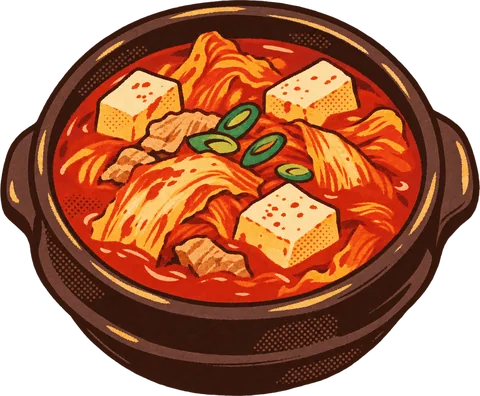
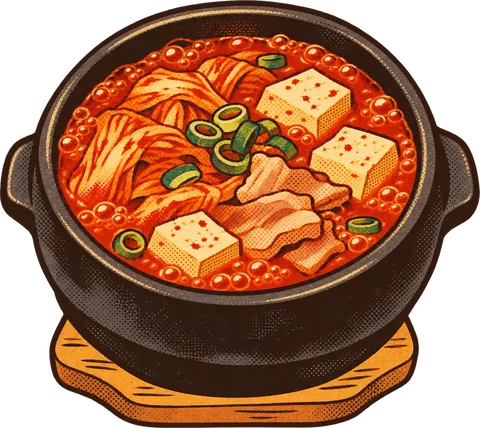
메뉴 그림 55개 추가

diff --git a/src/data/foodImages.ts b/src/data/foodImages.ts
@@ -1,10 +1,70 @@
 /**
  * 메뉴 그림이 있는 메뉴 ID 목록
  * 그림 파일은 public/foods/{id}.webp (가로 480px, 투명 배경, 그릇까지 그린 그림)
- * 여기 없는 메뉴는 이모지와 기본 접시로 보여줍니다. 그림이 생기면 한 줄씩 추가하세요.
+ * 원본은 D:\오늘의집\메뉴 폴더(깃에는 안 올라감)에 한글 메뉴 이름으로 보관합니다.
+ * 여기 없는 메뉴는 이모지와 기본 접시로 보여줍니다.
  */
-export const FOOD_IMAGES = new Set<string>(["kimchi-jjigae", "tteokbokki"]);
+export const FOOD_IMAGES = new Set<string>([
+  "banhmi",
+  "bibimbap",
+  "bossam",
+  "brunch",
+  "bulgogi",
+  "burger",
+  "chicken",
+  "cupbap",
+  "curry",
+  "dakgalbi",
+  "doenjang-jjigae",
+  "donkatsu",
+  "eomuk",
+  "galbitang",
+  "gamjatang",
+  "gukbap",
+  "gyudon",
+  "hanjeongsik",
+  "jeyuk",
+  "jjajangmyeon",
+  "jjamppong",
+  "jjolmyeon",
+  "jokbal",
+  "kalguksu",
+  "katsudon",
+  "kimchi-jjigae",
+  "naengmyeon",
+  "nasi-goreng",
+  "okonomiyaki",
+  "omakase",
+  "omurice",
+  "padthai",
+  "pasta",
+  "pho",
+  "pizza",
+  "rabokki",
+  "ramen",
+  "ramyeon",
+  "risotto",
+  "salad",
+  "samgyeopsal",
+  "sandwich",
+  "shabu",
+  "soba",
+  "steak",
+  "sundae",
+  "sundaeguk",
+  "sundubu",
+  "sushi",
+  "tacos",
+  "tangsuyuk",
+  "tendon",
+  "tteokbokki",
+  "twigim",
+  "udon",
+]);
+
+/** 그림을 바꾸면 숫자를 올려주세요. 브라우저에 남은 예전 그림 대신 새 그림을 받아옵니다. */
+const IMAGE_VERSION = 2;
 
 export function foodImage(id: string): string | undefined {
-  return FOOD_IMAGES.has(id) ? `/foods/${id}.webp` : undefined;
+  return FOOD_IMAGES.has(id) ? `/foods/${id}.webp?v=${IMAGE_VERSION}` : undefined;
 }
